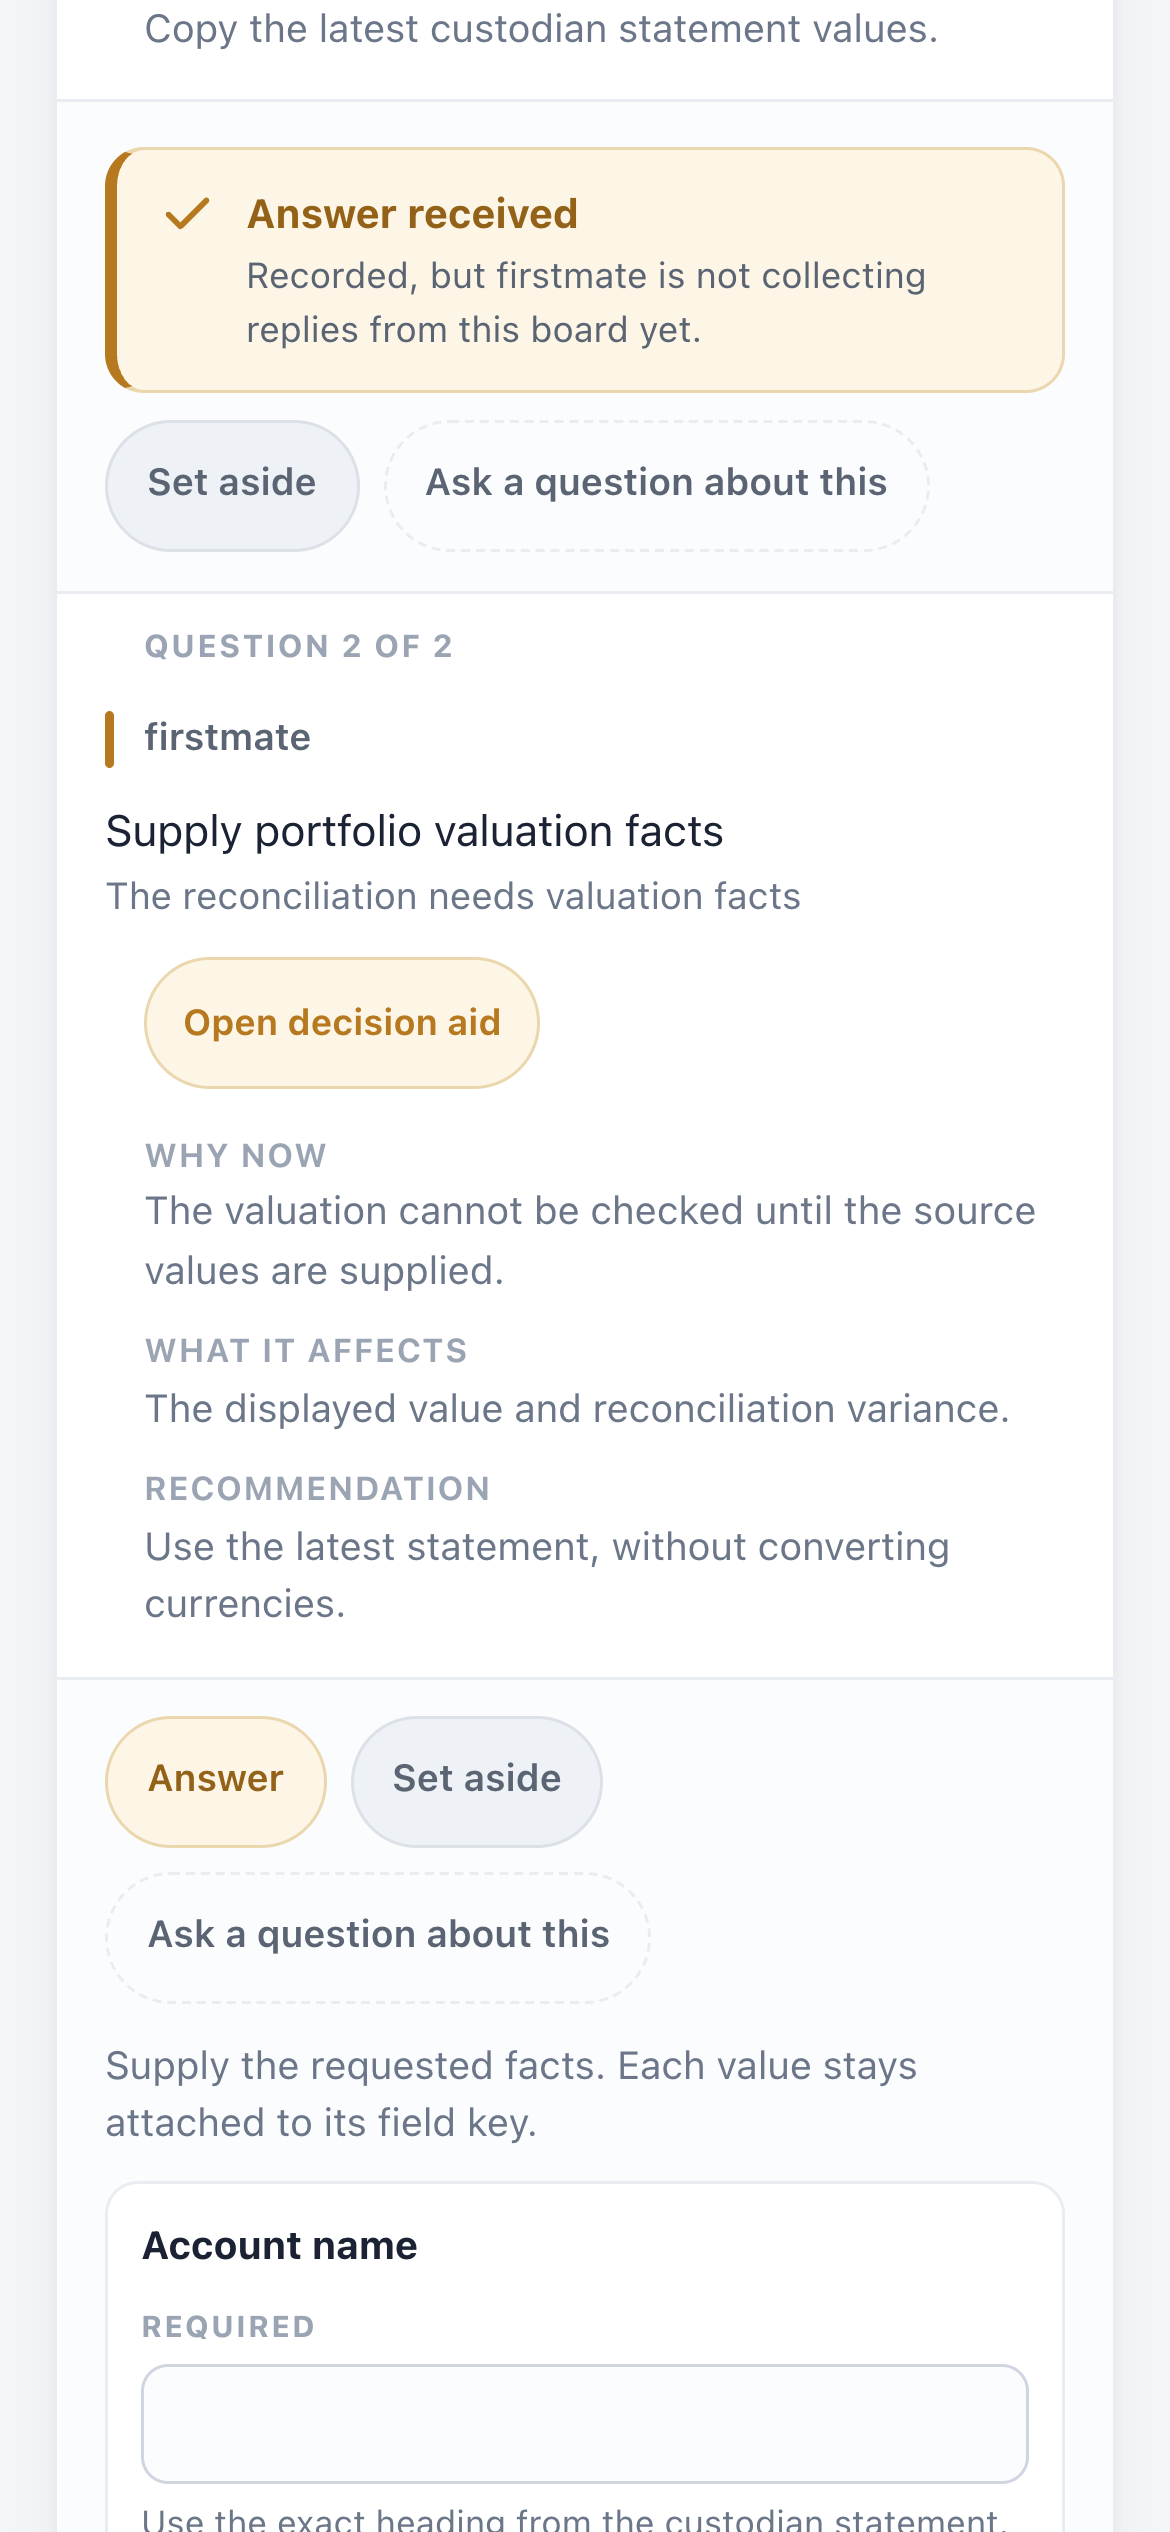
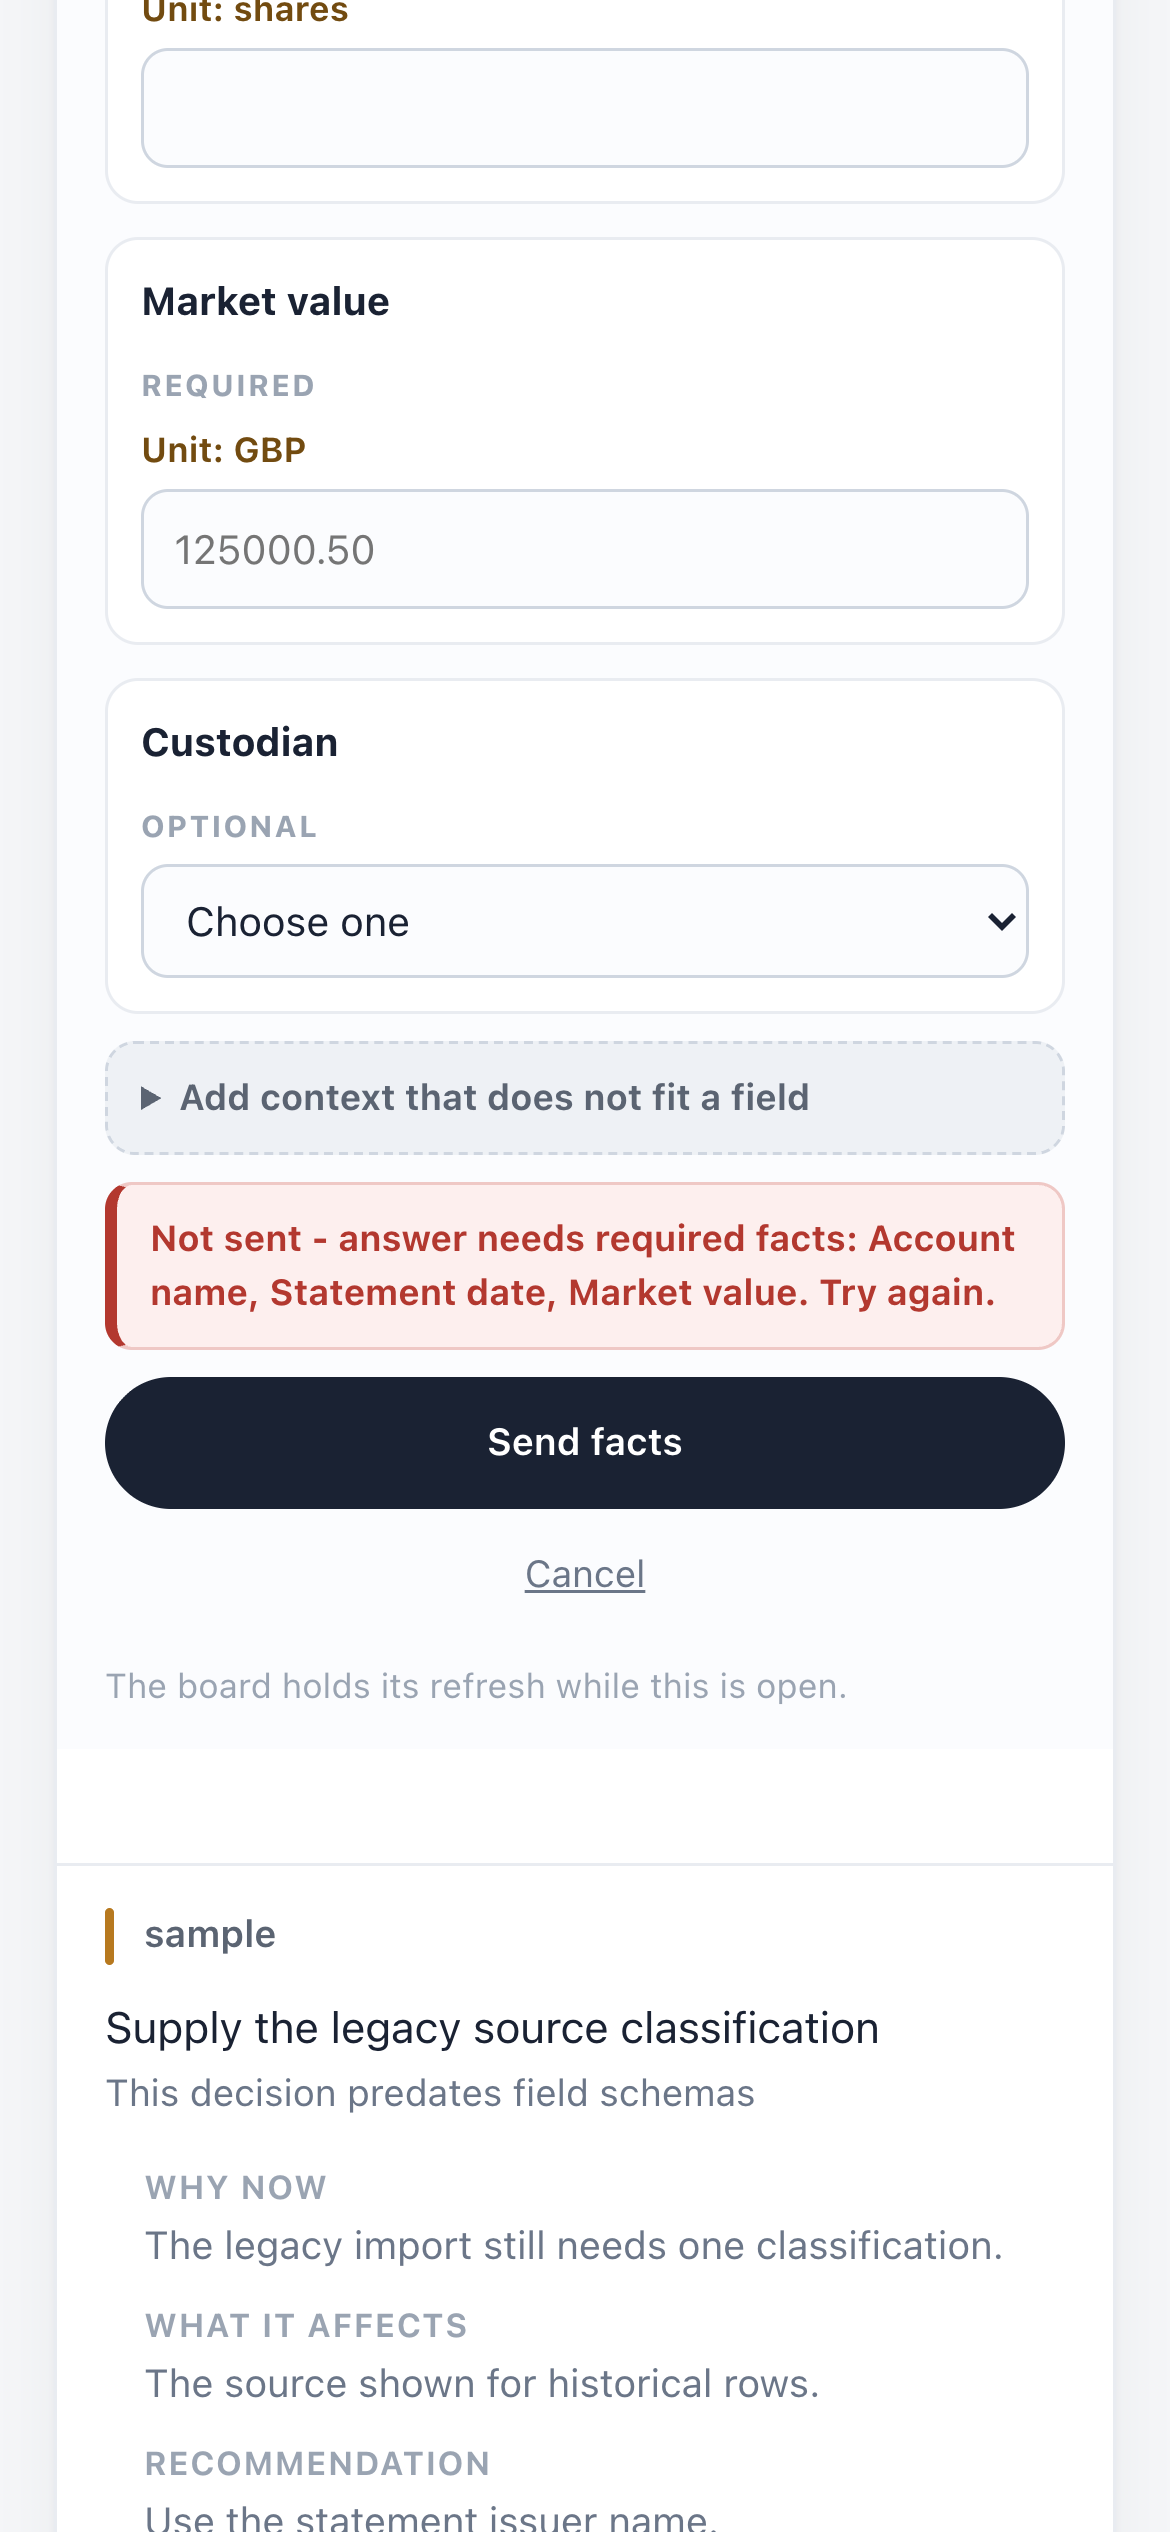
Show fact validation labels to board users

diff --git a/docs/evidence/mission-control/README.md b/docs/evidence/mission-control/README.md
@@ -69,7 +69,7 @@ The 390px inspection returned `{"w":390,"h":844,"overflow":false}`, and the real
 The fact-intake evidence was verified on 2026-08-10 with Chrome and `chrome-devtools-axi 0.1.27` against a synthetic grouped portfolio reconciliation.
 The browser inspection used `chrome-devtools-axi emulate --viewport '1280x900x1'` and `chrome-devtools-axi emulate --viewport '390x844x3,mobile,touch'`.
 The 390px inspection returned five aligned field controls from 47px to 343px, a full-width 320px by 44px submit control, the grouped progress label, and `overflow: false`.
-Submitting the blank form returned `answer needs required facts: account_name, statement_date, market_value` from the direct reply service and displayed it immediately above that submit control.
+Submitting the blank form returned a required-facts refusal from the direct reply service and displayed `answer needs required facts: Account name, Statement date, Market value` immediately above that submit control; stable field keys remain internal.
 
 `bin/fm-evidence-check.sh --local docs/evidence/mission-control` returned `fm-evidence-check: ok pairs_checked=14 identical_opted_out=0`.
 
